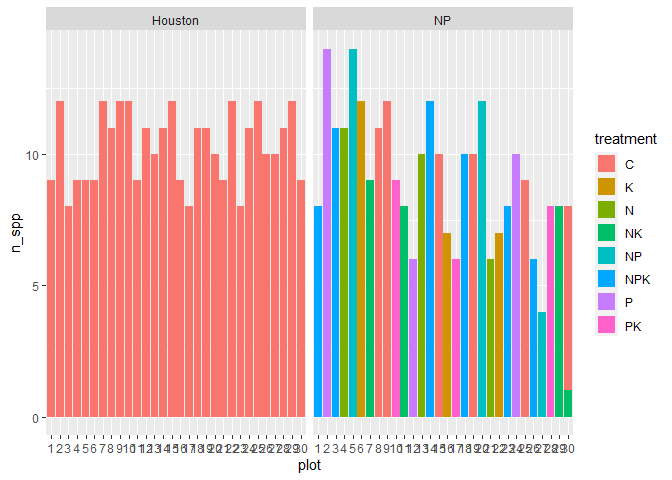
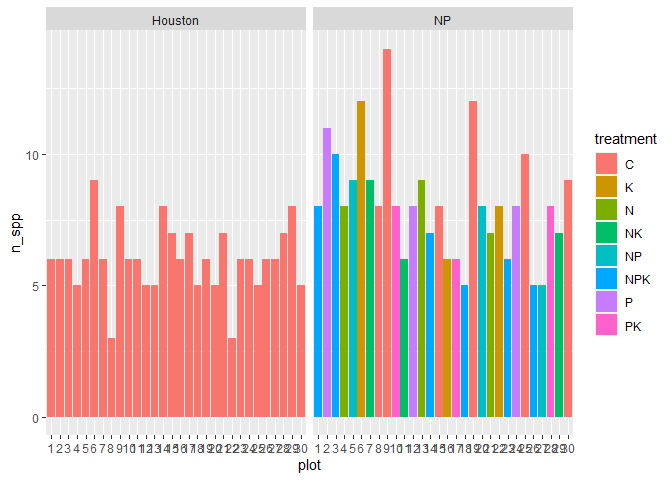
Finished Rmd

diff --git a/SACposter.md b/SACposter.md
@@ -26,6 +26,22 @@ applied. A greater understanding of these processes and consequent
 environmental impacts may provide a useful background of knowledge for
 land management, restoration, and conservational efforts.
 
+### **Introduction**
+
+MSUM has a total of 60 established plots at the Regional Science Center
+(RSC). 30 of these plots are a part of The Nutrient Network (NutNet), a
+global research collaborative started by the University of Minnesota (U
+of M) with the intent to study the effects of nutrient deposition in
+grasslands. This site is North Pond (NP), and receives NPK fertilizer
+applications. The other 30 plots, called Houston, do not receive any
+fertilizer applications and acts as a control site for student research
+projects.
+
+We have collected taxa, biomass, percent cover, and light measurements
+from these plots. We will be using the taxa data to analyze species
+richness at both sites. This analysis does not include factors that
+determine species dominance in each plot.
+
 ### **Methods**
 
 According to NutNet protocols (Nutrient Network 2016), each NutNet site
@@ -53,11 +69,11 @@ Data analysis was completed using R Studio software. 
 
 ![](SACposter_files/figure-gfm/unnamed-chunk-2-1.png)<!-- -->
 
-###### Fig. 2 Comparison of plant species richness between untreated plots, Houston (left) and NPK treated plots, North Pond (right). 2021
+###### Fig. 2 Comparison of plant species richness between untreated plots, Houston (left) and NPK treated plots, North Pond (right). 2020
 
 ![](SACposter_files/figure-gfm/unnamed-chunk-3-1.png)<!-- -->
 
-###### Fig. 3 Comparison of plant species richness between untreated plots, Houston (left) and NPK treated plots, North Pond (right). 2020 data
+###### Fig. 3 Comparison of plant species richness between untreated plots, Houston (left) and NPK treated plots, North Pond (right). 2018 data
 
 Figures 1-3 depict the species richness distribution between plots at
 North Pond and Houston. These graphs show a couple of visual trends over
@@ -97,21 +113,22 @@ plot is dominated by individual native species (say 80%).
 Nutrient deposition and runoff often contaminate the surrounding area of
 application. A study completed on the effects of urbanization on species
 richness showed that under circumstances of urbanization, species
-richness almost always decreases (McKinney 2008). This, paired with our
-results that have shown a higher average species richness in control
-plots as compared to plots with NPK additives, could implicate that as
-urban growth and sprawl increase, we will see a decrease of native
-species richness as more land is maintained with chemical control
-including fertilizers, herbicides, and pesticides. There is also
-evidence that suggests that the use of NPK fertilizers could increase
-the amount of exotic species richness, thus decreasisng the number of
-native species richness in prairie landscapes (Seableem 2013).
+richness almost always decreases (McKinney 2008). There is also evidence
+that suggests that the use of NPK fertilizers could increase the amount
+of exotic species richness, thus decreasing the number of native species
+richness in prairie landscapes (Seabloom 2013). Our results did not show
+significance in native and nonnative species between both sites, but
+North Pond control plots do have higher species richness than plots with
+fertilizer. This may be due to the natural variability between sites,
+because Houston is warmer and drier than North Pond. 
 
-This result is often misinterpreted, as fertilizers have a tendency to
-increase biomass. This creates the illusion that there is a healthy
-environment because there is more plant matter, but an analysis of
-species richness will often times reveal that, as we have seen in our
-work at the MSUM RSC, chemicals decrease species richness. 
+This result could be misinterpreted, as this analysis did not include
+biomass and percent cover data. To get a better understanding of the
+current status of the two sites and how fertilizers impact native
+prairies, I would recommend further analyses that include and breakdown
+biomass and percent cover.
+
+ 
 
 ###### ![](images/biomass.jpg)
 
